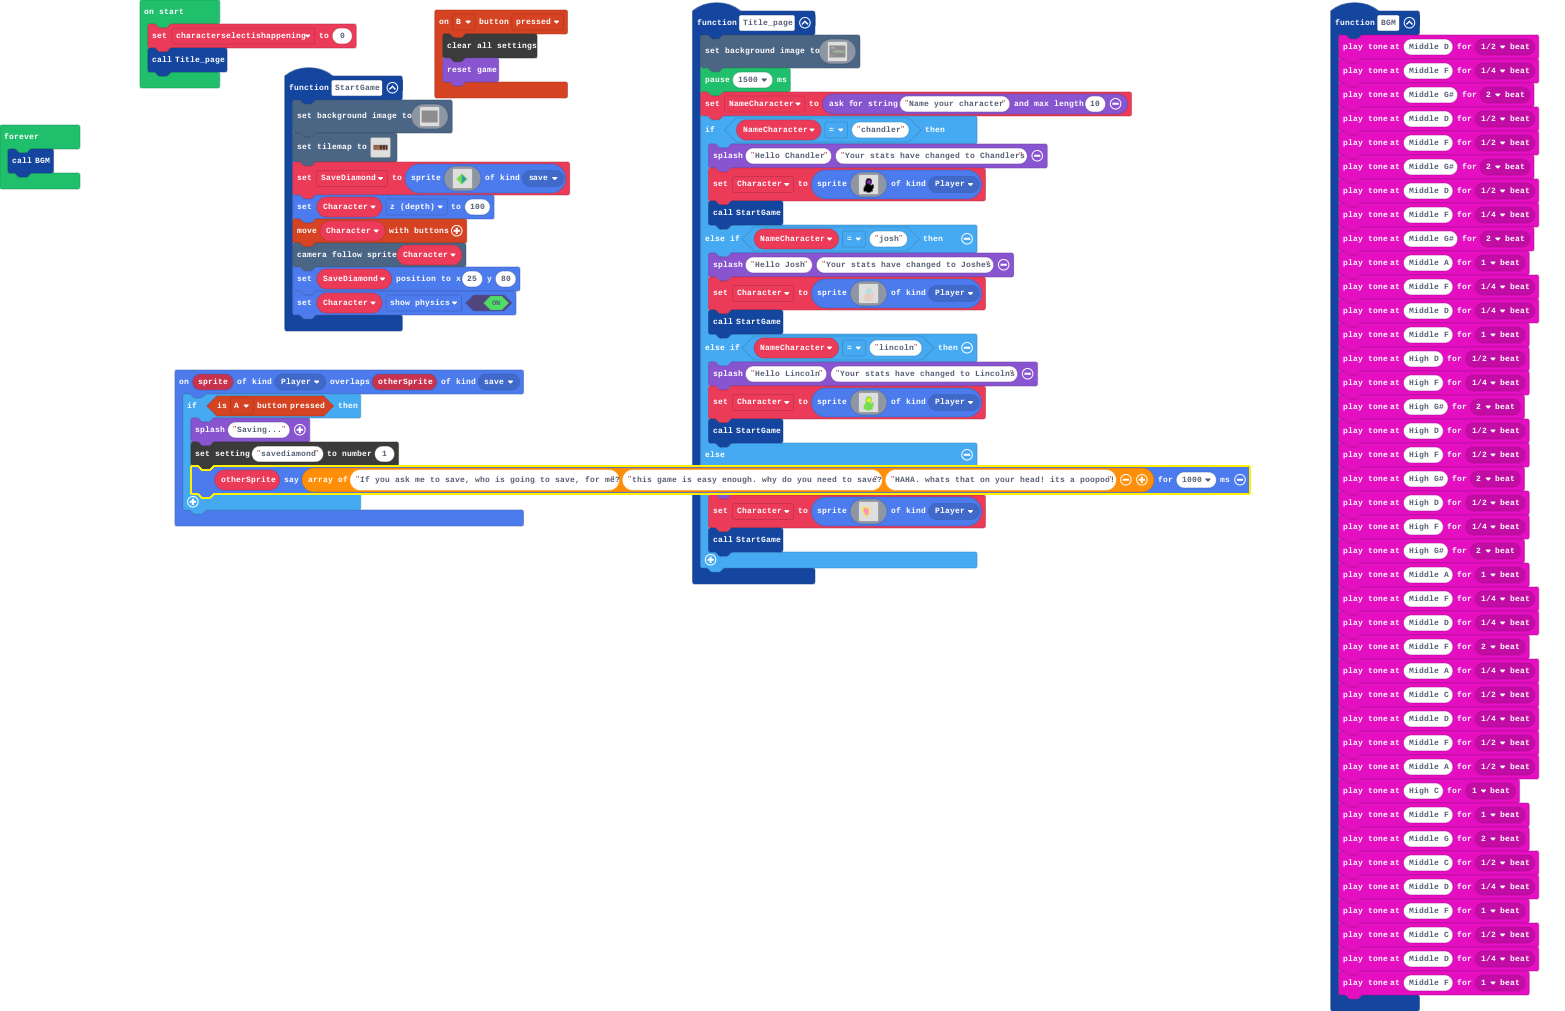
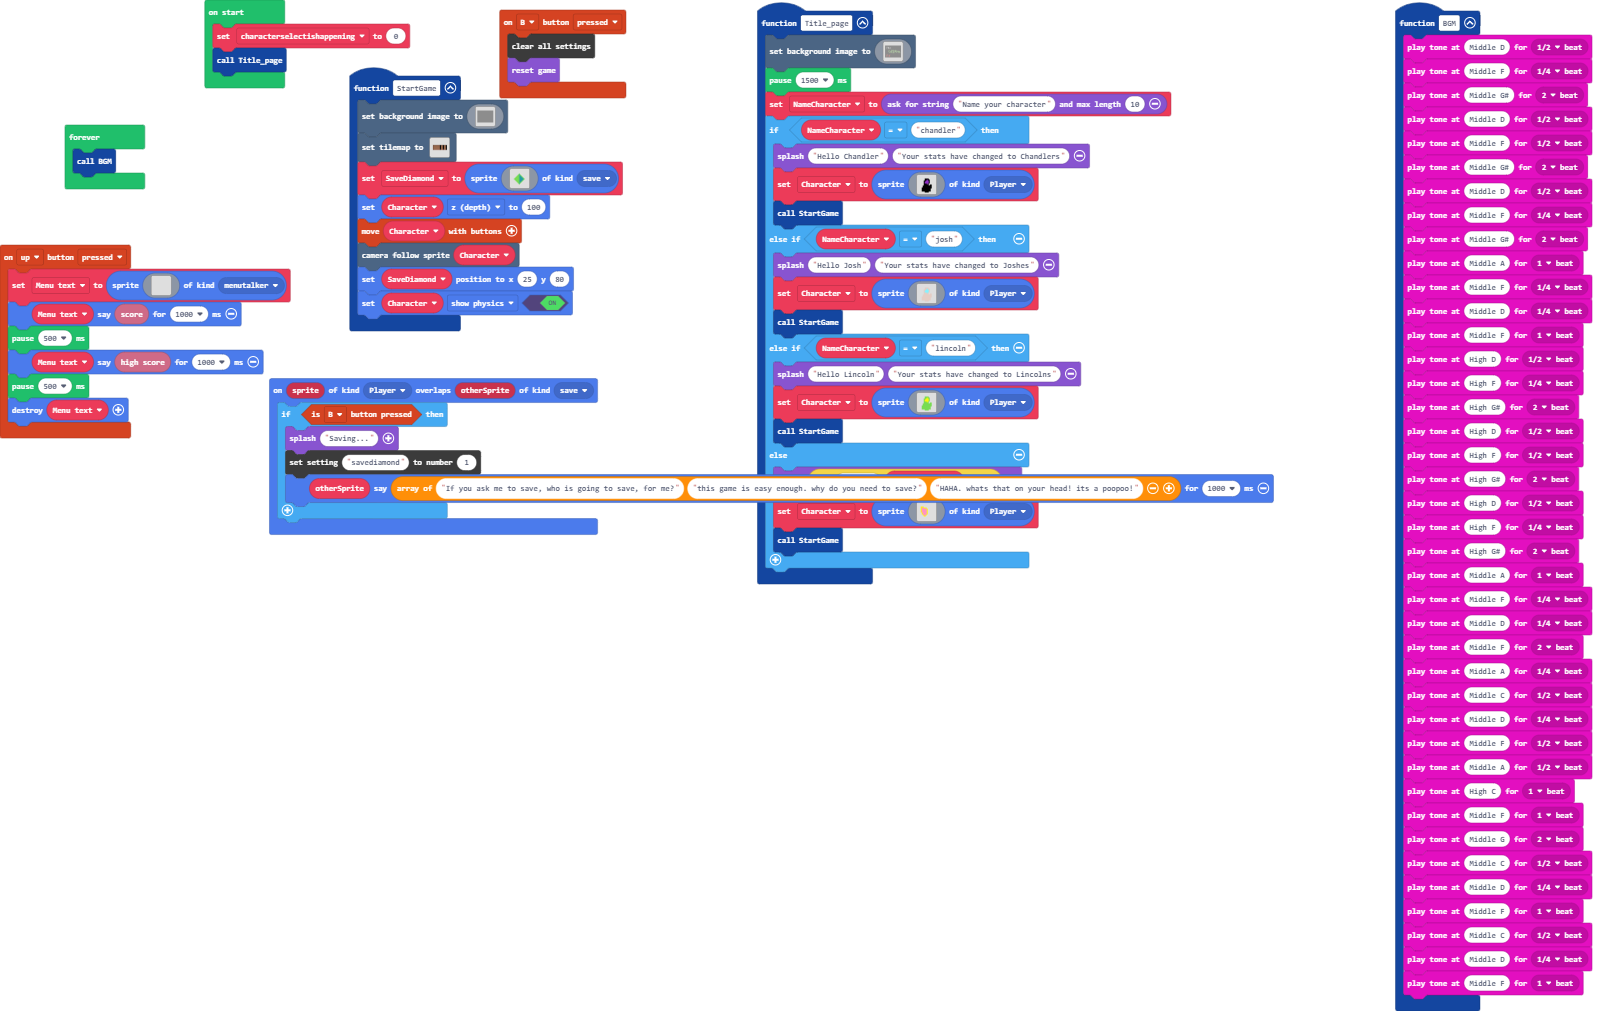
Update main.blocks, main.ts

Changed region(s): [[0.0, 0.0, 0.7974, 0.5826], [0.8281, 0.0, 1.0, 1.0], [0.5214, 0.5519, 0.5521, 0.5826]]

diff --git a/main.ts b/main.ts
@@ -2,13 +2,39 @@ namespace SpriteKind {
     export const BackgroundP = SpriteKind.create()
     export const Cursor = SpriteKind.create()
     export const save = SpriteKind.create()
+    export const menutalker = SpriteKind.create()
 }
 sprites.onOverlap(SpriteKind.Player, SpriteKind.save, function (sprite, otherSprite) {
-    if (controller.A.isPressed()) {
+    if (controller.B.isPressed()) {
         game.splash("Saving...")
         blockSettings.writeNumber("savediamond", 1)
         otherSprite.say(["If you ask me to save, who is going to save, for me?", "this game is easy enough. why do you need to save?", "HAHA. whats that on your head! its a poopoo!"], 1000)
     }
+})
+controller.up.onEvent(ControllerButtonEvent.Pressed, function () {
+    Menu_text = sprites.create(img`
+        . . . . . . . . . . . . . . . . 
+        . . . . . . . . . . . . . . . . 
+        . . . . . . . . . . . . . . . . 
+        . . . . . . . . . . . . . . . . 
+        . . . . . . . . . . . . . . . . 
+        . . . . . . . . . . . . . . . . 
+        . . . . . . . . . . . . . . . . 
+        . . . . . . . . . . . . . . . . 
+        . . . . . . . . . . . . . . . . 
+        . . . . . . . . . . . . . . . . 
+        . . . . . . . . . . . . . . . . 
+        . . . . . . . . . . . . . . . . 
+        . . . . . . . . . . . . . . . . 
+        . . . . . . . . . . . . . . . . 
+        . . . . . . . . . . . . . . . . 
+        . . . . . . . . . . . . . . . . 
+        `, SpriteKind.menutalker)
+    Menu_text.say(info.score(), 1000)
+    pause(500)
+    Menu_text.say(info.highScore(), 1000)
+    pause(500)
+    Menu_text.destroy()
 })
 controller.B.onEvent(ControllerButtonEvent.Pressed, function () {
     blockSettings.clear()
@@ -426,6 +452,7 @@ function StartGame () {
 let SaveDiamond: Sprite = null
 let Character: Sprite = null
 let NameCharacter = ""
+let Menu_text: Sprite = null
 let characterselectishappening = 0
 Title_page()
 forever(function () {
